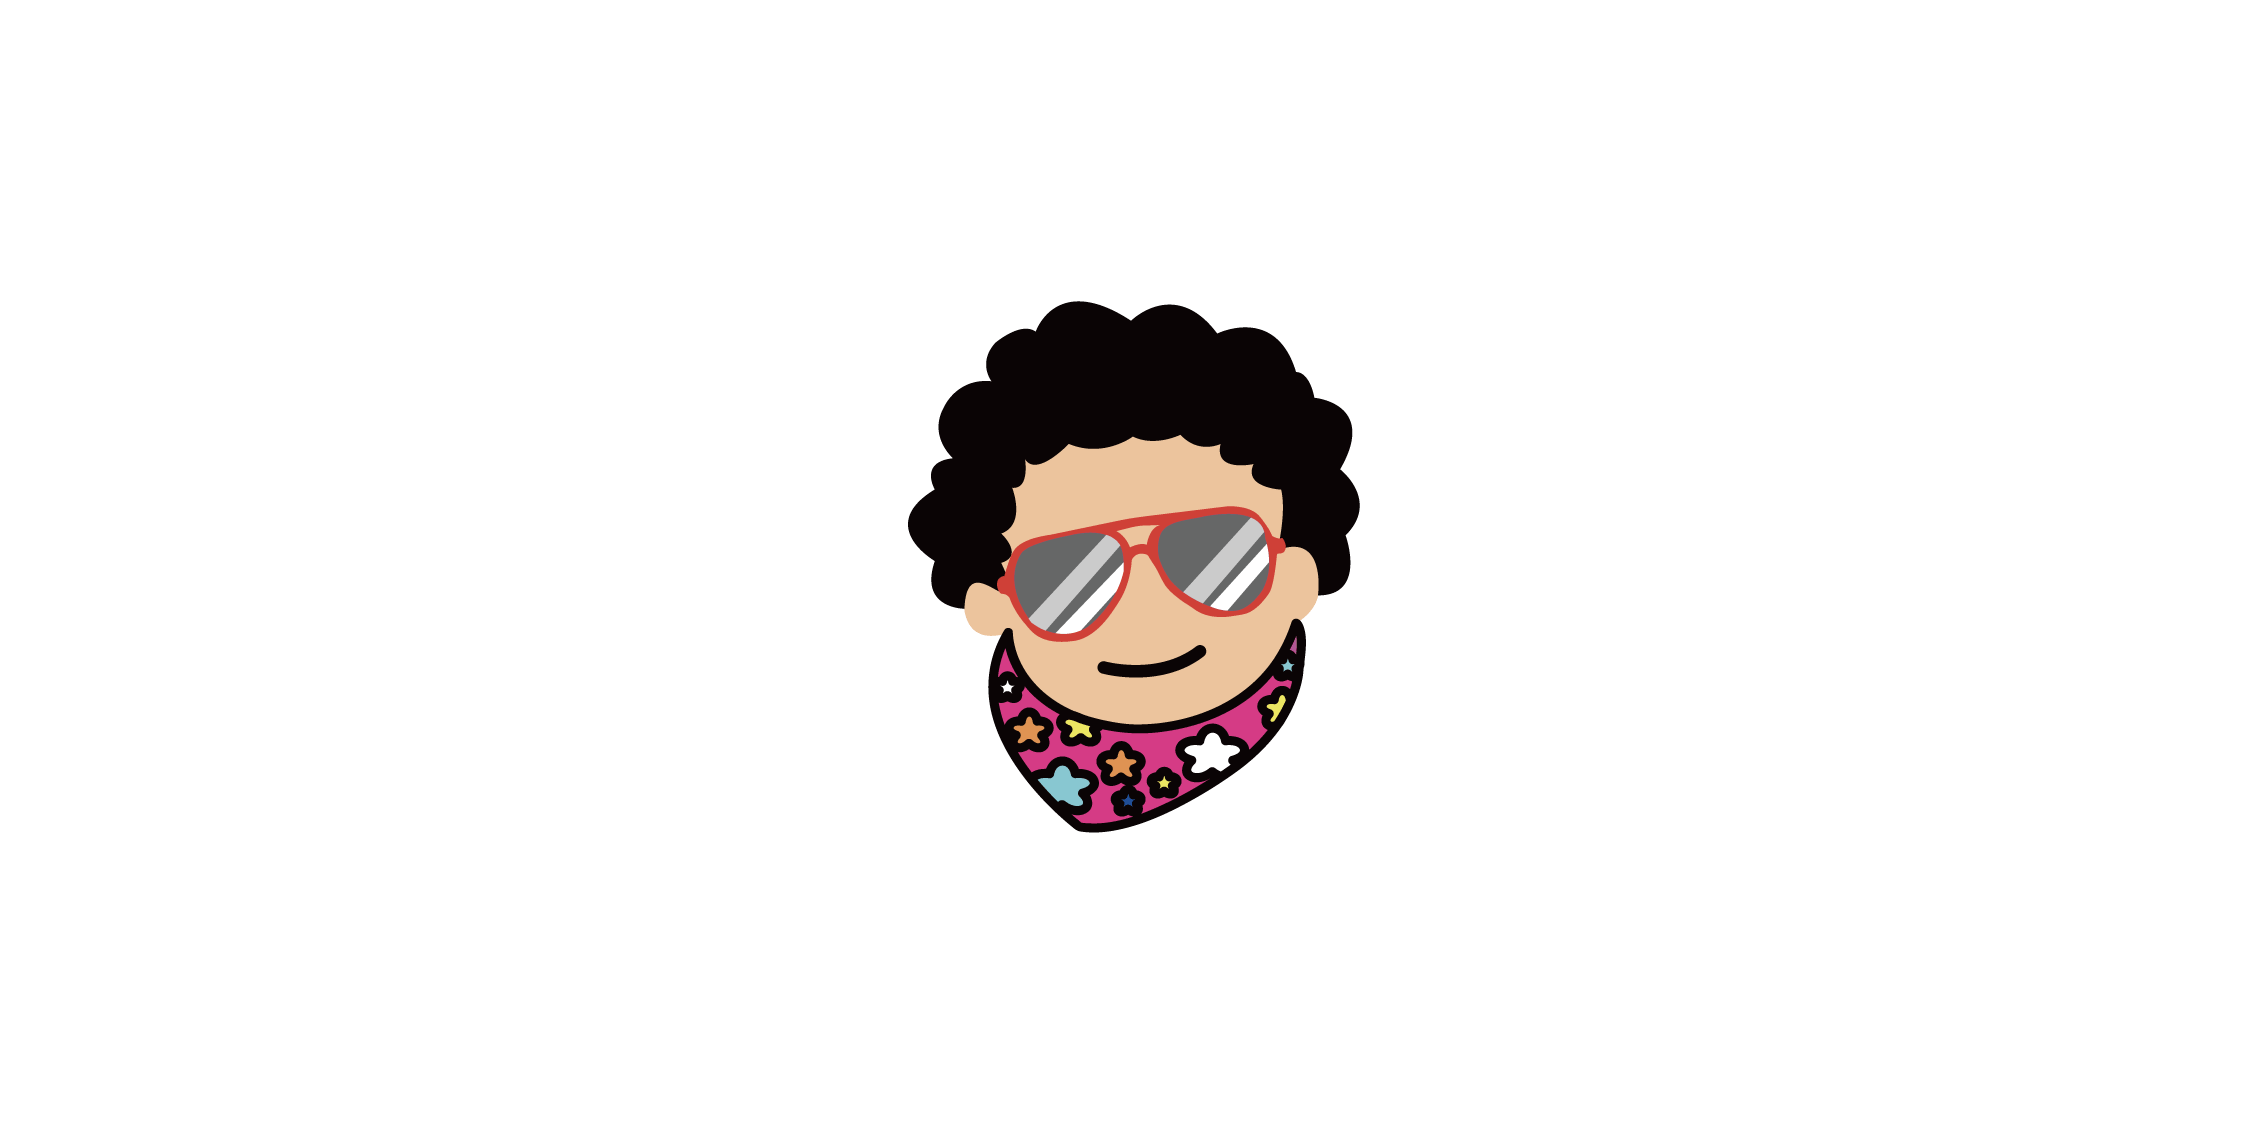
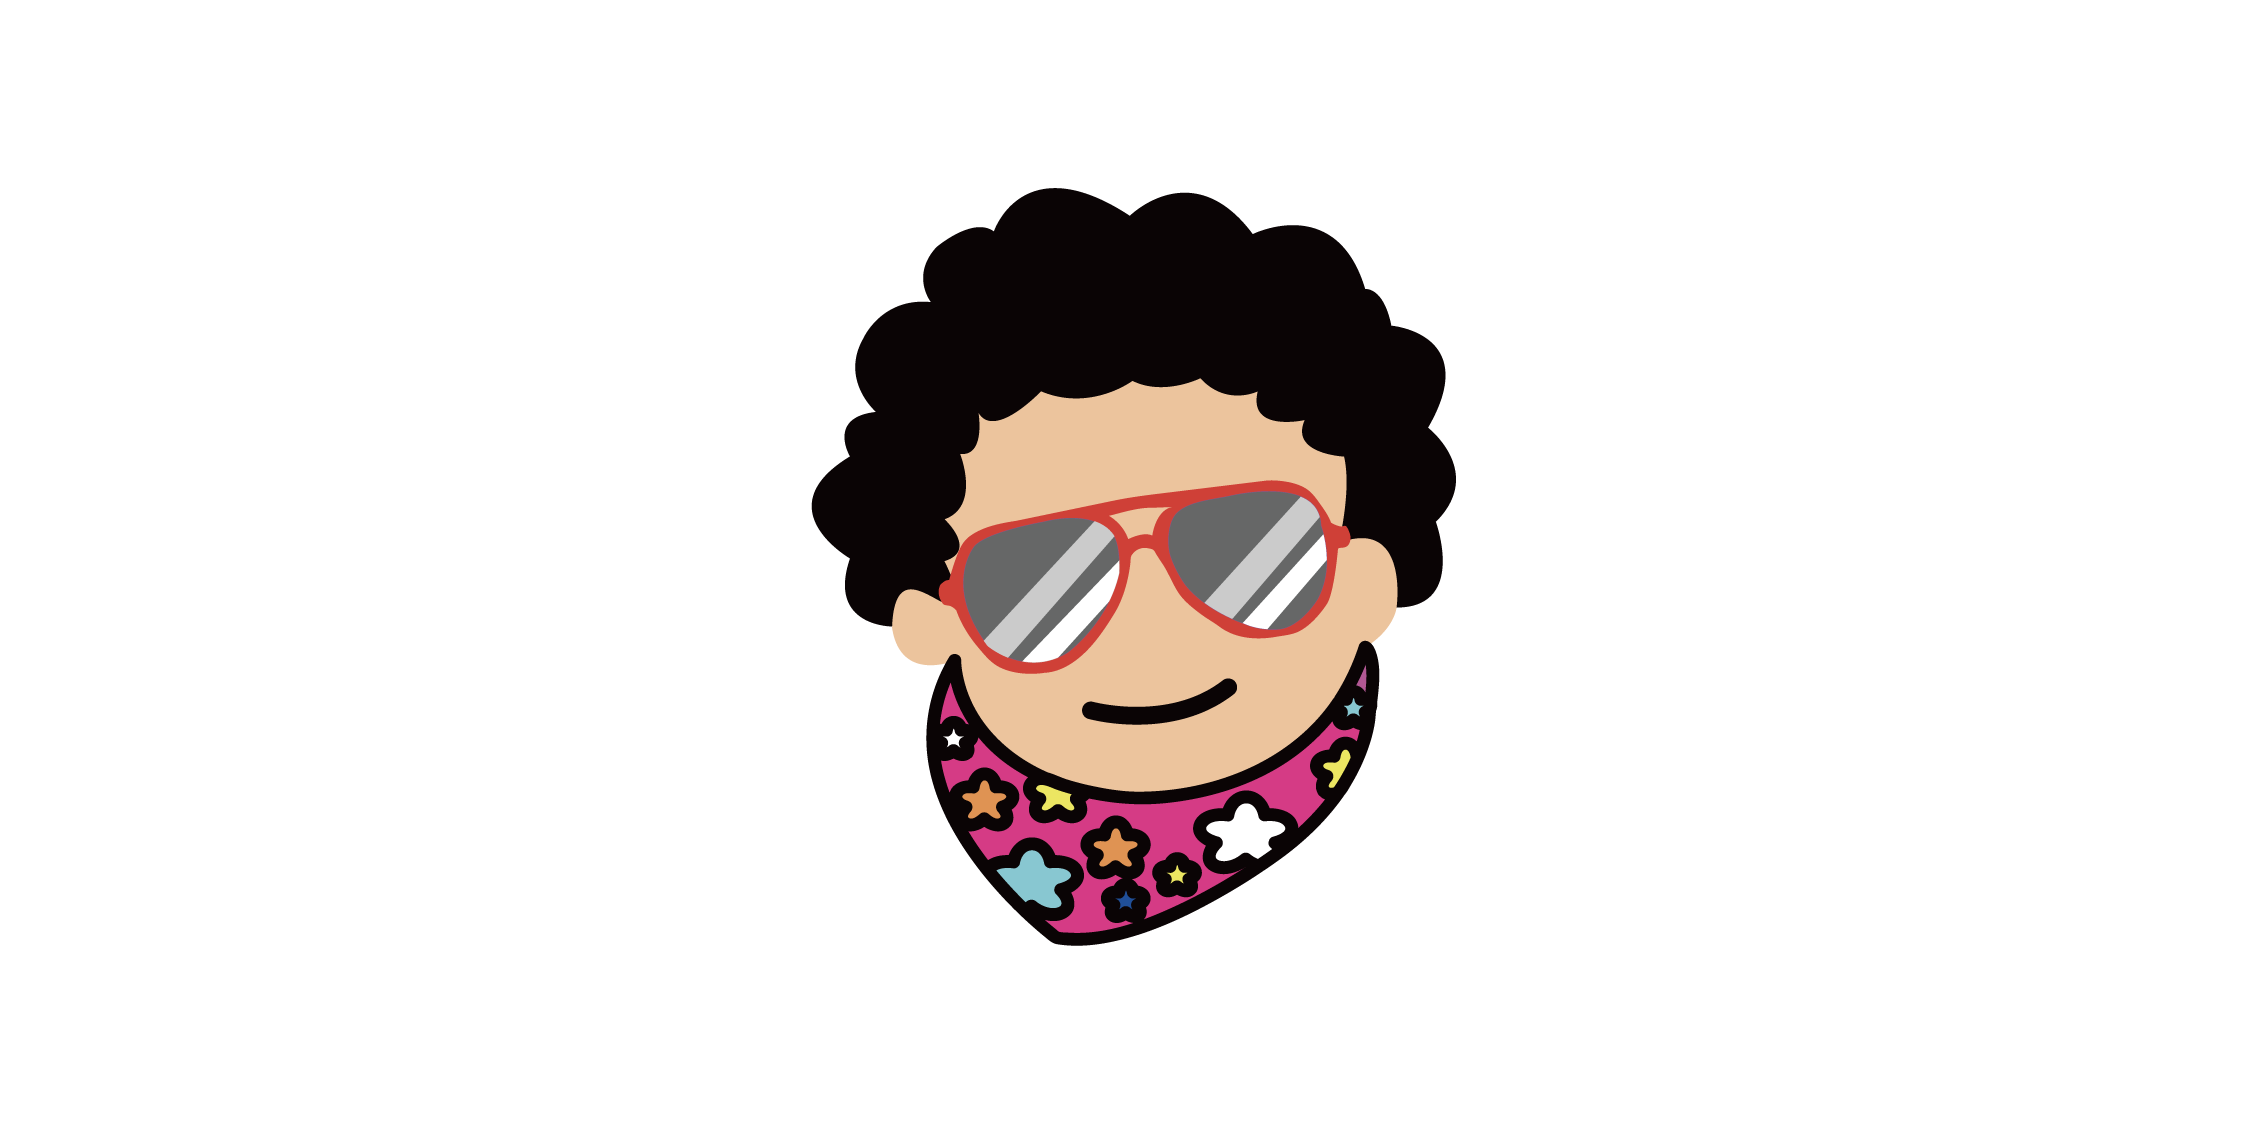
feedback

Changed region(s): [[0.3395, 0.1543, 0.6481, 0.8333]]

diff --git a/src/Routes/Home.tsx b/src/Routes/Home.tsx
@@ -315,23 +315,33 @@ function Home() {
                 <HSecondHeader>있는 것</HSecondHeader>
               </SecondRow>
               <SecondRow>
-                <SecondText>걸음 수 측정이</SecondText>
+                <SecondText style={{ fontWeight: 500, marginRight: 5 }}>
+                  걸음수
+                </SecondText>
+                <SecondText>측정이</SecondText>
                 <HSecondText>있다</HSecondText>
               </SecondRow>
               <SecondRow>
-                <SecondText>일상 사진과 글이</SecondText>
+                <SecondText style={{ fontWeight: 500, marginRight: 5 }}>
+                  일상
+                </SecondText>
+                <SecondText>사진과 글이</SecondText>
                 <HSecondText>있다</HSecondText>
               </SecondRow>
               <SecondRow>
-                <SecondText>시를 다 쓰면 액자 안에</SecondText>
+                <SecondText>모든 활동에</SecondText>
+                <SecondText style={{ fontWeight: 500, marginLeft: 5 }}>
+                  점수
+                </SecondText>
+                <SecondText>가</SecondText>
                 <HSecondText>있다</HSecondText>
               </SecondRow>
               <SecondRow>
-                <SecondText>모든 활동에 점수가</SecondText>
-                <HSecondText>있다</HSecondText>
-              </SecondRow>
-              <SecondRow>
-                <SecondText>실시간 순위를 확인할 수</SecondText>
+                <SecondText>실시간</SecondText>
+                <SecondText style={{ fontWeight: 500, marginLeft: 5 }}>
+                  순위
+                </SecondText>
+                <SecondText>를 확인할 수</SecondText>
                 <HSecondText>있다</HSecondText>
               </SecondRow>
             </SecondTextBox>
@@ -343,19 +353,32 @@ function Home() {
                 <HSecondHeader>없는 것</HSecondHeader>
               </SecondRow>
               <SecondRow>
-                <SecondText>회원 가입이</SecondText>
+                <SecondText>복잡한</SecondText>
+                <SecondText style={{ fontWeight: 500, marginLeft: 5 }}>
+                  회원가입
+                </SecondText>
+                <SecondText>이</SecondText>
                 <HSecondText>없다</HSecondText>
               </SecondRow>
               <SecondRow>
-                <SecondText>영어가</SecondText>
+                <SecondText style={{ fontWeight: 500 }}>영어</SecondText>
+                <SecondText>로 된 것이</SecondText>
                 <HSecondText>없다</HSecondText>
               </SecondRow>
               <SecondRow>
-                <SecondText>작은 글씨가</SecondText>
+                <SecondText>보기 힘든</SecondText>
+                <SecondText style={{ fontWeight: 500, marginLeft: 5 }}>
+                  작은 글씨
+                </SecondText>
+                <SecondText>가</SecondText>
                 <HSecondText>없다</HSecondText>
               </SecondRow>
               <SecondRow>
-                <SecondText>MZ 세대가</SecondText>
+                <SecondText>갈등의</SecondText>
+                <SecondText style={{ fontWeight: 500, marginLeft: 5 }}>
+                  MZ세대
+                </SecondText>
+                <SecondText>가</SecondText>
                 <HSecondText>없다</HSecondText>
               </SecondRow>
             </SecondTextBox>

diff --git a/src/Routes/Service.tsx b/src/Routes/Service.tsx
@@ -45,16 +45,18 @@ const IntroHeader = styled.h2`
 const IntroText = styled.p`
   font-size: 20px;
   line-height: 40px;
+  margin-bottom: 5px;
 
   ${customoMedia.lessThan("cellphone")`
-  line-height: 35px;
+    font-size: 18px;
+    line-height: 35px;
   `}
 `;
 
 const IntroImage = styled.img`
-  width: 560px;
+  width: 600px;
   height: 450px;
-  margin-right: 150px;
+  margin-right: 80px;
 
   ${customoMedia.lessThan("cellphone")`
   width: 350px;
@@ -134,15 +136,17 @@ function Service() {
           <div style={{ zIndex: 99 }}>
             <IntroHeader>청춘온이란?</IntroHeader>
             <IntroText>
-              치매예방 활동에 대한 모든 것을 데이터와 컨텐츠로 연결하여
+              치매 예방에 대한 모든 것을 데이터와 컨텐츠로 연결하여
             </IntroText>
             <IntroText>
-              더욱 활발한 노후 생활을 만들어주는 치매 예방 플랫폼입니다.
+              정신 및 신체 활동 증진을 돕는 치매 예방 플랫폼 입니다.
             </IntroText>
             <IntroText>
               일상 올리기, 시 쓰기, 댓글과 좋아요, 걸음수와 활동 순위까지
             </IntroText>
-            <IntroText> 청춘온 하나로 제2의 청춘을 경험해보세요!</IntroText>
+            <IntroText>
+              청춘온 하나로 시니어들의 제2의 청춘을 경험해보세요!
+            </IntroText>
           </div>
         </ContentBox>
         <ContentBox>
